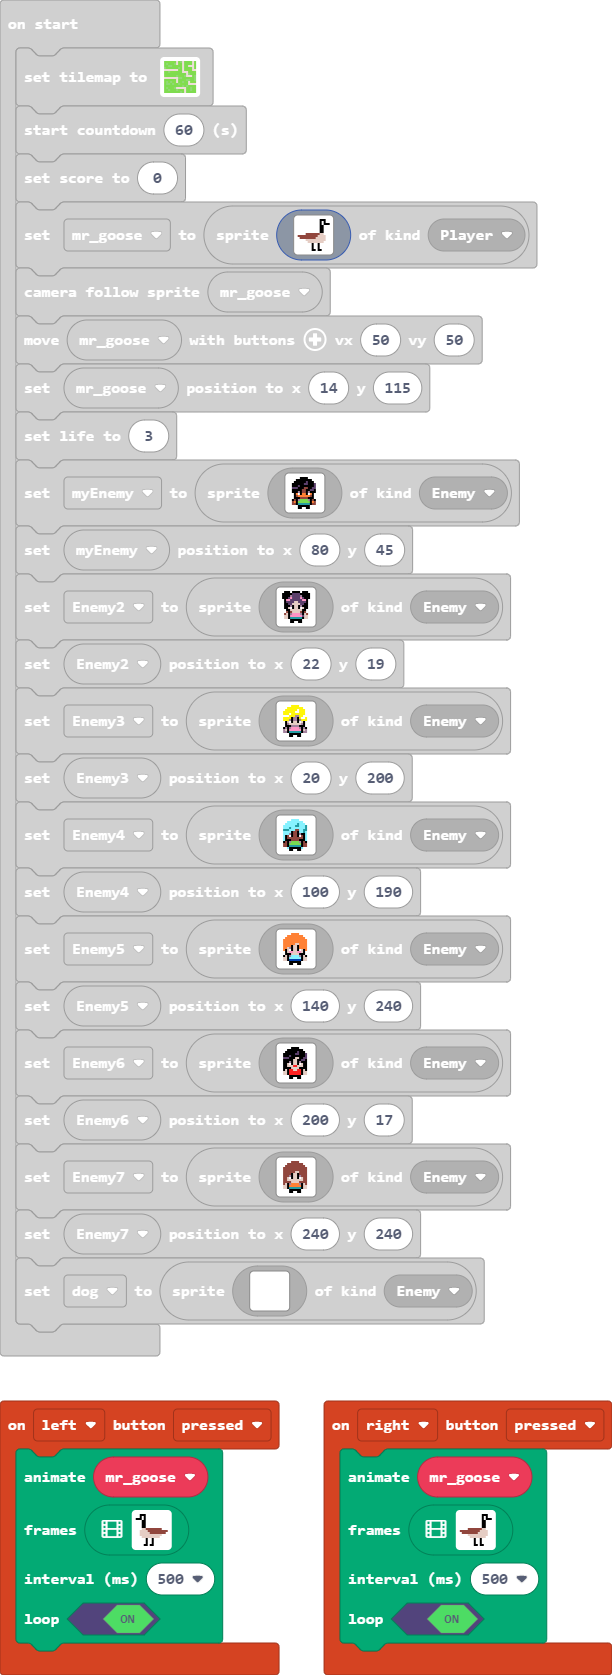
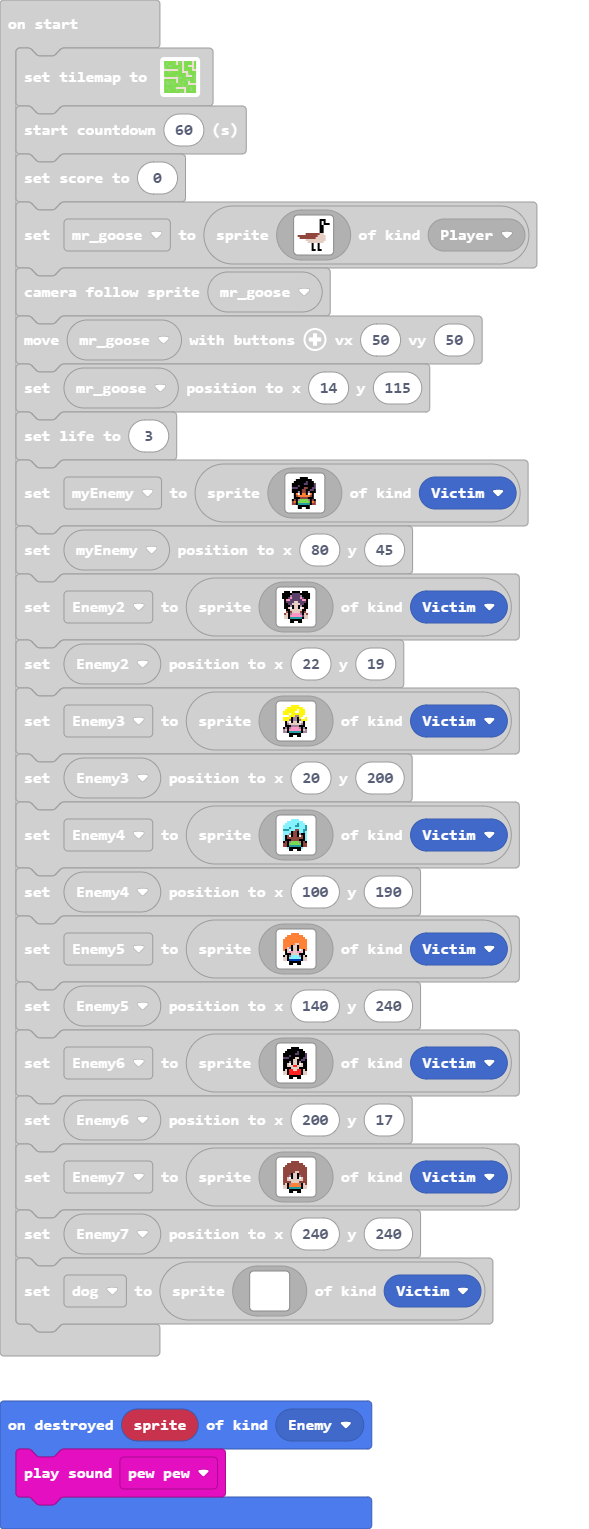
Update pxt.json, main.blocks, main.ts

diff --git a/main.ts b/main.ts
@@ -3,6 +3,9 @@ enum ActionKind {
     Idle,
     Jumping
 }
+namespace SpriteKind {
+    export const Victim = SpriteKind.create()
+}
 controller.left.onEvent(ControllerButtonEvent.Pressed, function () {
     animation.runImageAnimation(
     mr_goose,
@@ -56,6 +59,9 @@ controller.right.onEvent(ControllerButtonEvent.Pressed, function () {
 sprites.onOverlap(SpriteKind.Player, SpriteKind.Projectile, function (sprite, otherSprite) {
     info.changeLifeBy(-1)
     pause(2000)
+})
+sprites.onDestroyed(SpriteKind.Enemy, function (sprite) {
+    music.pewPew.play()
 })
 let projectile2: Sprite = null
 let projectile: Sprite = null
@@ -119,7 +125,7 @@ let myEnemy = sprites.create(img`
     e e f 6 6 6 6 6 6 f e e . 
     . . . f f f f f f . . . . 
     . . . f f . . f f . . . . 
-    `, SpriteKind.Enemy)
+    `, SpriteKind.Victim)
 myEnemy.setPosition(80, 45)
 let Enemy2 = sprites.create(img`
     . f f f . f f f f . f f f . 
@@ -138,7 +144,7 @@ let Enemy2 = sprites.create(img`
     . d d f 6 6 6 6 6 6 f d d . 
     . . . . f f f f f f . . . . 
     . . . . f f . . f f . . . . 
-    `, SpriteKind.Enemy)
+    `, SpriteKind.Victim)
 Enemy2.setPosition(22, 19)
 let Enemy3 = sprites.create(img`
     . . . . 5 5 5 5 . . . . . 
@@ -157,7 +163,7 @@ let Enemy3 = sprites.create(img`
     b b f 6 6 6 6 6 6 f b b . 
     . . . f f f f f f . . . . 
     . . . f f . . f f . . . . 
-    `, SpriteKind.Enemy)
+    `, SpriteKind.Victim)
 Enemy3.setPosition(20, 200)
 let Enemy4 = sprites.create(img`
     . . . . 9 9 9 9 . . . . . 
@@ -176,7 +182,7 @@ let Enemy4 = sprites.create(img`
     e e f 6 6 6 6 6 6 f e e . 
     . . 9 f f f f f f 9 . . . 
     . . . f f . . f f . . . . 
-    `, SpriteKind.Enemy)
+    `, SpriteKind.Victim)
 Enemy4.setPosition(100, 190)
 let Enemy5 = sprites.create(img`
     . . . . 4 4 4 4 . . . . . 
@@ -195,7 +201,7 @@ let Enemy5 = sprites.create(img`
     d d f 8 8 8 8 8 8 f d d . 
     . . . f f f f f f . . . . 
     . . . f f . . f f . . . . 
-    `, SpriteKind.Enemy)
+    `, SpriteKind.Victim)
 Enemy5.setPosition(140, 240)
 let Enemy6 = sprites.create(img`
     . . . . f f f f . . . . . 
@@ -214,7 +220,7 @@ let Enemy6 = sprites.create(img`
     d d f 2 2 2 2 2 2 f d d . 
     . . . f f f f f f . . . . 
     . . . f f . . f f . . . . 
-    `, SpriteKind.Enemy)
+    `, SpriteKind.Victim)
 Enemy6.setPosition(200, 17)
 let Enemy7 = sprites.create(img`
     . . . . e e e e . . . . . 
@@ -233,7 +239,7 @@ let Enemy7 = sprites.create(img`
     d d f 6 6 6 6 6 6 f d d . 
     . . . f f f f f f . . . . 
     . . . f f . . f f . . . . 
-    `, SpriteKind.Enemy)
+    `, SpriteKind.Victim)
 Enemy7.setPosition(240, 240)
 let dog = sprites.create(img`
     . . . . . . . . . . . . . . . . 
@@ -252,7 +258,7 @@ let dog = sprites.create(img`
     . . . . . . . . . . . . . . . . 
     . . . . . . . . . . . . . . . . 
     . . . . . . . . . . . . . . . . 
-    `, SpriteKind.Enemy)
+    `, SpriteKind.Victim)
 game.onUpdateInterval(5000, function () {
     projectile = sprites.createProjectileFromSprite(img`
         . . . . . . . . . . . . . . . . 
